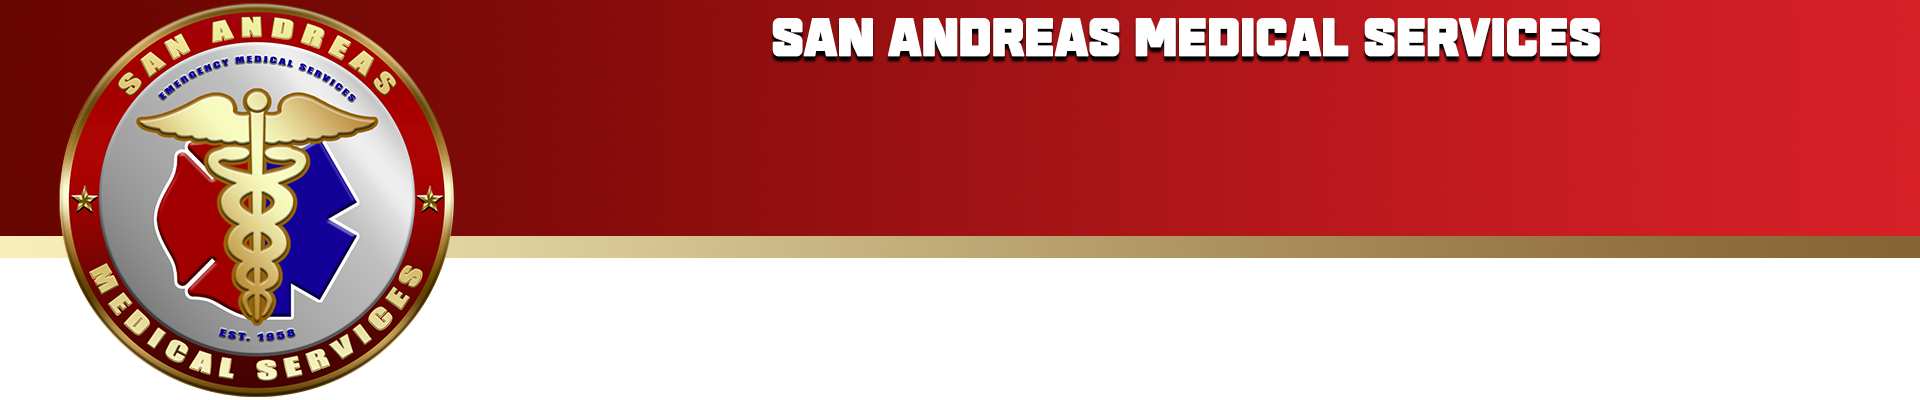
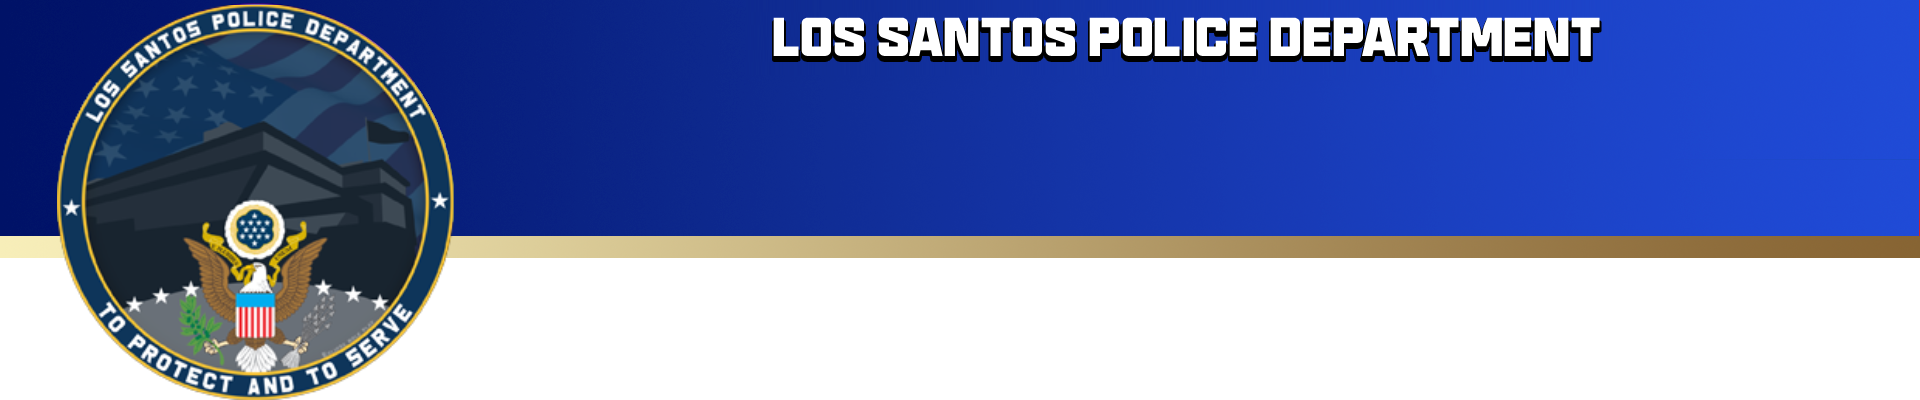
- Added LSPD sections - Rethemed LSPD sections - Created LSPD Base sig and header - Fixed Spelling errors in LSC

diff --git a/LSPD/lspd.html b/LSPD/lspd.html
@@ -4,7 +4,7 @@
 <head>
   <meta charset="UTF-8">
   <meta name="viewport" content="width=device-width, initial-scale=1.0">
-  <title>SAMS | Signature Portal</title>
+  <title>LSPD | Hub Portal</title>
   <link rel="icon" href="./images/favicon.png" type="image">
   <link href="https://cdn.jsdelivr.net/npm/bootstrap@5.0.0-beta1/dist/css/bootstrap.min.css" rel="stylesheet"
     integrity="sha384-giJF6kkoqNQ00vy+HMDP7azOuL0xtbfIcaT9wjKHr8RbDVddVHyTfAAsrekwKmP1" crossorigin="anonymous">
@@ -34,14 +34,14 @@
 
     .changelog-box {
       background: rgba(26, 29, 36, 0.8);
-      border-left: 4px solid #ef4444;
+      border-left: 4px solid #4447ef;
       border-radius: 8px;
       padding: 20px;
       margin-top: 30px;
       color: #ffffff;
     }
     .text-muted-custom { color: #a1a1a6; }
-    .badge-update { background-color: #ef4444; margin-right: 10px; }
+    .badge-update { background-color: #4744ef; margin-right: 10px; }
 </style>
 </head>
 
@@ -51,7 +51,7 @@
       <div class="container d-flex justify-content-start align-items-center">
         <a href="../index.html" class="btn btn-home"><i class="fas fa-arrow-left me-2"></i>Home</a>
         
-        <span class="navbar-brand mb-0 h1 fw-bold">San Andreas Medical Services</span>
+        <span class="navbar-brand mb-0 h1 fw-bold">Los Santos Police Department</span>
         
         <button class="navbar-toggler ms-auto" type="button" data-bs-toggle="collapse" data-bs-target="#navbarNavAltMarkup"
           aria-controls="navbarNavAltMarkup" aria-expanded="false" aria-label="Toggle navigation">
@@ -60,11 +60,11 @@
 
         <div class="collapse navbar-collapse" id="navbarNavAltMarkup">
           <div class="navbar-nav">
-            <a class="nav-link active" href="./sams.html">SAMS Home</a>
+            <a class="nav-link active" href="./lspd.html">LSPD Home</a>
             <a class="nav-link" href="./title.html">Title Creator</a>
             <a class="nav-link" href="./signature.html">Signature Creator</a>
             <a class="nav-link" href="./header.html">Header Creator</a>
-            <a class="nav-link" href="./certificate.html">Certificate Creator</a>
+            <a class="nav-link active" href="./citation.html">Citation Creator</a>
             <span class="nav-link credits">Credits : Paradise RP [Original $tax#6060]</span>
           </div>
         </div>
@@ -74,22 +74,26 @@
     <div class="container my-5">
       <div class="row justify-content-center">
         <div class="col-md-8 text-center text-white">
-          <h1 class="display-4 fw-bold" style="font-family: 'Source Sans Pro', sans-serif;">WELCOME TO SAMS</h1>
-          <p class="lead text-muted-custom">Official Asset Creation Portal for San Andreas Medical Services.</p>
+          <h1 class="display-4 fw-bold" style="font-family: 'Source Sans Pro', sans-serif;">WELCOME TO LSPD</h1>
+          <p class="lead text-muted-custom">Official Asset Creation Portal for Los Santos Police Department.</p>
           <hr class="my-4 border-secondary">
           
           <div class="text-start">
             <h3>Information</h3>
-            <p>This portal allows SAMS personnel to generate uniform forum signatures and titles. Please ensure you use your official rank and callsign as registered in the department roster.</p>
+            <p>This portal allows LSPD personnel to generate uniform forum signatures and titles. Please ensure you use your official rank and callsign as registered in the department roster.</p>
             
             <div class="row mt-4">
               <div class="col-sm-6">
                 <h5><i class="fas fa-file-image me-2"></i>Titles</h5>
-                <p class="small text-muted-custom">Generate headers for forum applications and medical reports.</p>
+                <p class="small text-muted-custom">Generate headers for forum applications and reports.</p>
               </div>
               <div class="col-sm-6">
                 <h5><i class="fas fa-id-card me-2"></i>Signatures</h5>
                 <p class="small text-muted-custom">Create personalized footer signatures for your community profile.</p>
+              </div>
+              <div class="col-sm-6">
+                <h5><i class="fas fa-receipt me-2"></i>Citations</h5>
+                <p class="small text-muted-custom">Create personalized Citations for litering, speeding, etc.</p>
               </div>
             </div>
 
@@ -99,25 +103,16 @@
               <div class="mb-3">
                 <span class="badge badge-update">v1.2.0</span> <small class="text-muted-custom">January 2026</small>
                 <ul class="mt-2">
-                  <li>Added support for Life Flight Division signatures.</li>
-                  <li>Updated SAMS logo to high-definition version.</li>
+                  <li>Created LSPD Signiture and division.</li>
+                  <li>Added backend for citation system.</li>
                   <li>Fixed font-scaling issues on mobile devices.</li>
                 </ul>
               </div>
-
-              <div class="mb-0">
-                <span class="badge badge-update">v1.1.5</span> <small class="text-muted-custom">December 2025</small>
-                <ul class="mt-2">
-                  <li>Initial rollout of the SAMS Title Generator.</li>
-                  <li>Integrated Paradise RP branding colors.</li>
                 </ul>
               </div>
             </div>
           </div>
 
-          <div class="mt-5">
-            <a href="./signature.html" class="btn btn-danger btn-lg px-5 fw-bold">Get Started</a>
-          </div>
         </div>
       </div>
     </div>

diff --git a/LSPD/signature.html b/LSPD/signature.html
@@ -4,7 +4,7 @@
 <head>
   <meta charset="UTF-8">
   <meta name="viewport" content="width=device-width, initial-scale=1.0">
-  <title>San Andreas Medical Services</title>
+  <title>Los Santos Police Department</title>
   <link rel="icon" href="./images/favicon.png" type="image">
   <link href="https://cdn.jsdelivr.net/npm/bootstrap@5.0.0-beta1/dist/css/bootstrap.min.css" rel="stylesheet"
     integrity="sha384-giJF6kkoqNQ00vy+HMDP7azOuL0xtbfIcaT9wjKHr8RbDVddVHyTfAAsrekwKmP1" crossorigin="anonymous">
@@ -50,7 +50,7 @@
       <div class="container d-flex justify-content-start align-items-center">
         <a href="../index.html" class="btn btn-home"><i class="fas fa-arrow-left me-2"></i>Home</a>
         
-        <span class="navbar-brand mb-0 h1 fw-bold">San Andreas Medical Services</span>
+        <span class="navbar-brand mb-0 h1 fw-bold">Los Santos Police Department</span>
         
         <button class="navbar-toggler ms-auto" type="button" data-bs-toggle="collapse" data-bs-target="#navbarNavAltMarkup"
           aria-controls="navbarNavAltMarkup" aria-expanded="false" aria-label="Toggle navigation">
@@ -59,11 +59,11 @@
 
         <div class="collapse navbar-collapse" id="navbarNavAltMarkup">
           <div class="navbar-nav">
-            <a class="nav-link" href="./sams.html">SAMS Home</a>
+            <a class="nav-link" href="./lspd.html">LSPD Home</a>
             <a class="nav-link" href="./title.html">Title Creator</a>
             <a class="nav-link active" href="./signature.html">Signature Creator</a>
             <a class="nav-link" href="./header.html">Header Creator</a>
-            <a class="nav-link" href="./certificate.html">Certificate Creator</a>
+            <a class="nav-link active" href="./citation.html">Citation Creator</a>
             <span class="nav-link credits">Credits : Paradise RP [Original $tax#6060]</span>
           </div>
         </div>
@@ -74,26 +74,7 @@
     <div class="container ">
       <!-- <section class="d-flex justify-content-around ranks-section"> -->
       <div class="row justify-content-between mt-3 px-2 ranks">
-        <input type="button" class="btn btn-gradient btn-outline-dark text-truncate" value="Chief" name='chief' />
-        <input type="button" class="btn btn-gradient btn-outline-dark text-truncate" value="Assistant Chief"
-          name='assistantChief' />
-        <input type="button" class="btn btn-gradient btn-outline-dark text-truncate" value="Deputy Chief"
-          name='deputyChief' />
-        <input type="button" class="btn btn-gradient btn-outline-dark text-truncate" value="Captain" name='captain' />
-        <input type="button" class="btn btn-gradient btn-outline-dark text-truncate" value="Lieutenant"
-          name='lieutenant' />
-	<input type="button" class="btn btn-gradient btn-outline-dark text-truncate" value="Lead Paramedic"
-          name='leadParamedic' />
-        <input type="button" class="btn btn-gradient btn-outline-dark text-truncate" value="Paramedic"
-          name='paramedic' />
-        <input type="button" class="btn btn-gradient btn-outline-dark text-truncate" value="Master EMT"
-          name='masterEmt' />
-        <input type="button" class="btn btn-gradient btn-outline-dark text-truncate" value="Advanced EMT"
-          name='advancedEmt' />
-		<input type="button" class="btn btn-gradient btn-outline-dark text-truncate" value="Senior EMT"
-          name='seniorEmt' />
-        <input type="button" class="btn btn-gradient btn-outline-dark text-truncate" value="EMT" name='emt' />
-		<input type="button" class="btn btn-gradient btn-outline-dark text-truncate" value="Trainee" name='trainee' />
+
       </div>
       <!-- </section> -->
 
@@ -111,8 +92,16 @@
             <input type="text" class="form-control" name='fullname' spellcheck="false">
           </div>
           <div class="col-6">
-            <label>Callsign/Badge Number</label>
+            <label>Badge Number</label>
             <input type="text" class="form-control" name='badge' spellcheck="false">
+          </div>
+          <div class="col-6 ">
+            <label>Rank</label>
+            <input type="text" class="form-control" name='rank' spellcheck="false">
+          </div>
+          <div class="col-6">
+            <label>Callsign</label>
+            <input type="text" class="form-control" name='callsign' spellcheck="false">
           </div>
         </div>
         <label>Divisions/Office</label>

diff --git a/LSPD/certificate.html b/LSPD/certificate.html
@@ -4,7 +4,7 @@
 <head>
   <meta charset="UTF-8">
   <meta name="viewport" content="width=device-width, initial-scale=1.0">
-  <title>San Andreas Medical Services - Certificate</title>
+  <title>Los Santos Police Department</title>
   <link rel="icon" href="./images/favicon.png" type="image">
   <link href="https://cdn.jsdelivr.net/npm/bootstrap@5.0.0-beta1/dist/css/bootstrap.min.css" rel="stylesheet"
     integrity="sha384-giJF6kkoqNQ00vy+HMDP7azOuL0xtbfIcaT9wjKHr8RbDVddVHyTfAAsrekwKmP1" crossorigin="anonymous">
@@ -44,7 +44,7 @@
       <div class="container d-flex justify-content-start align-items-center">
         <a href="../index.html" class="btn btn-home"><i class="fas fa-arrow-left me-2"></i>Home</a>
         
-        <span class="navbar-brand mb-0 h1 fw-bold">San Andreas Medical Services</span>
+        <span class="navbar-brand mb-0 h1 fw-bold">Los Santos Police Department</span>
         
         <button class="navbar-toggler ms-auto" type="button" data-bs-toggle="collapse" data-bs-target="#navbarNavAltMarkup"
           aria-controls="navbarNavAltMarkup" aria-expanded="false" aria-label="Toggle navigation">
@@ -53,11 +53,11 @@
 
         <div class="collapse navbar-collapse" id="navbarNavAltMarkup">
           <div class="navbar-nav">
-            <a class="nav-link" href="./sams.html">SAMS Home</a>
+            <a class="nav-link" href="./lspd.html">LSPD Home</a>
             <a class="nav-link" href="./title.html">Title Creator</a>
             <a class="nav-link" href="./signature.html">Signature Creator</a>
             <a class="nav-link" href="./header.html">Header Creator</a>
-            <a class="nav-link active" href="./certificate.html">Certificate Creator</a>
+            <a class="nav-link active" href="./citation.html">Citation Creator</a>
             <span class="nav-link credits">Credits : Paradise RP [Original $tax#6060]</span>
           </div>
         </div>

diff --git a/LSPD/title.html b/LSPD/title.html
@@ -3,7 +3,7 @@
 <head>
   <meta charset="UTF-8">
   <meta name="viewport" content="width=device-width, initial-scale=1.0">
-  <title>San Andreas Medical Services</title>
+  <title>Los Santos Police Department</title>
   <link rel="icon" href="./images/favicon.png" type="image">
   <link href="https://cdn.jsdelivr.net/npm/bootstrap@5.0.0-beta1/dist/css/bootstrap.min.css" rel="stylesheet"
     integrity="sha384-giJF6kkoqNQ00vy+HMDP7azOuL0xtbfIcaT9wjKHr8RbDVddVHyTfAAsrekwKmP1" crossorigin="anonymous">
@@ -49,7 +49,7 @@
       <div class="container d-flex justify-content-start align-items-center">
         <a href="../index.html" class="btn btn-home"><i class="fas fa-arrow-left me-2"></i>Home</a>
         
-        <span class="navbar-brand mb-0 h1 fw-bold">San Andreas Medical Services</span>
+        <span class="navbar-brand mb-0 h1 fw-bold">Los Santos Police Department</span>
         
         <button class="navbar-toggler ms-auto" type="button" data-bs-toggle="collapse" data-bs-target="#navbarNavAltMarkup"
           aria-controls="navbarNavAltMarkup" aria-expanded="false" aria-label="Toggle navigation">
@@ -58,11 +58,11 @@
 
         <div class="collapse navbar-collapse" id="navbarNavAltMarkup">
           <div class="navbar-nav">
-            <a class="nav-link" href="./sams.html">SAMS Home</a>
+            <a class="nav-link" href="./lspd.html">LSPD Home</a>
             <a class="nav-link active" href="./title.html">Title Creator</a>
             <a class="nav-link" href="./signature.html">Signature Creator</a>
             <a class="nav-link" href="./header.html">Header Creator</a>
-            <a class="nav-link" href="./certificate.html">Certificate Creator</a>
+            <a class="nav-link active" href="./citation.html">Citation Creator</a>
             <span class="nav-link credits">Credits : Paradise RP [Original $tax#6060]</span>
           </div>
         </div>

diff --git a/LSPD/js/signature.js b/LSPD/js/signature.js
@@ -36,17 +36,27 @@ const render = () => {
   ctx.shadowColor = 'rgb(0,0,0)';
   ctx.shadowBlur = 4;
 
-  ctx.font = '60px Source Sans Pro';
-  ctx.fillText(inputs.fullname.value.toUpperCase().trim(), 700, 130);
   ctx.font = '46px Source Sans Pro';
-  ctx.fillText(inputs.badge.value.toUpperCase().trim(), 700, 190);
+  ctx.textAlign = 'left';
+  ctx.fillText(inputs.fullname.value.toUpperCase().trim(), 500, 90);
+  ctx.font = '46px Source Sans Pro';
+  ctx.textAlign = 'left';
+  ctx.fillText(inputs.badge.value.toUpperCase().trim(), 1350, 90);
   ctx.shadowOffsetY = 3;
   ctx.shadowOffsetx = 3;
   ctx.shadowBlur = 1;
-  ctx.font = '34px Source Sans Pro';
-  ctx.fontWeight = 'bold';
-  ctx.fillText(inputs.line1.value.toUpperCase().trim(), 700, 260);
-  ctx.fillText(inputs.line2.value.toUpperCase().trim(), 700, 310);
+  ctx.font = '40px Source Sans Pro';
+  ctx.textAlign = 'left';
+  ctx.fillText(inputs.rank.value.toUpperCase().trim(), 500, 132);
+  ctx.font = '40px Source Sans Pro';
+  ctx.textAlign = 'right';
+  ctx.fillText(inputs.callsign.value.toUpperCase().trim(), 1200, 132);
+    ctx.font = '30px Carlito';
+  ctx.textAlign = 'left';
+  ctx.fillText(inputs.line1.value.toUpperCase().trim(), 500, 170);
+    ctx.font = '30px Carlito';
+  ctx.textAlign = 'left';
+  ctx.fillText(inputs.line2.value.toUpperCase().trim(), 500, 205);
 };
 inputs.fullname.addEventListener('keyup', () => {
   render();

diff --git a/LSPD/header.html b/LSPD/header.html
@@ -4,7 +4,7 @@
 <head>
   <meta charset="UTF-8">
   <meta name="viewport" content="width=device-width, initial-scale=1.0">
-  <title>San Andreas Medical Services</title>
+  <title>Los Santos Police Department</title>
   <link rel="icon" href="./images/favicon.png" type="image">
   <link href="https://cdn.jsdelivr.net/npm/bootstrap@5.0.0-beta1/dist/css/bootstrap.min.css" rel="stylesheet"
     integrity="sha384-giJF6kkoqNQ00vy+HMDP7azOuL0xtbfIcaT9wjKHr8RbDVddVHyTfAAsrekwKmP1" crossorigin="anonymous">
@@ -63,7 +63,7 @@
             <a class="nav-link" href="./title.html">Title Creator</a>
             <a class="nav-link" href="./signature.html">Signature Creator</a>
             <a class="nav-link active" href="./header.html">Header Creator</a>
-            <a class="nav-link" href="./certificate.html">Certificate Creator</a>
+            <a class="nav-link active" href="./citation.html">Citation Creator</a>
             <span class="nav-link credits">Credits : Paradise RP [Original $tax#6060]</span>
           </div>
         </div>

diff --git a/LSPD/style.css b/LSPD/style.css
@@ -25,7 +25,7 @@
   font-style: normal;
 }
 body {
-  background: linear-gradient(90deg, #6a0500, #6a0500, #6a0500);
+  background: linear-gradient(90deg, #00026a, #02006a, #00136a);
   background-size: 600% 600%;
   animation: AnimationName 5s ease infinite;
 }
@@ -46,7 +46,7 @@ body {
   /* 214, 20, 20  #d61414*/
   background: linear-gradient(
     to right,
-    rgba(103, 5, 0, 0.8),
+    rgba(0, 19, 103, 0.8),
     rgba(214, 20, 20, 0.1)
   );
 }

diff --git a/index.html b/index.html
@@ -250,7 +250,7 @@
                 <h2>LSPD</h2>
                 <p class="desc">Create official LSPD signatures. Customize badge numbers, ranks, and unit callsigns.</p>
             </div>
-            <a href="./police_project/index.html" class="btn">Create Signature</a>
+            <a href="LSPD\lspd.html" class="btn">Create Signature</a>
         </div>
 
         <div class="card ems">
